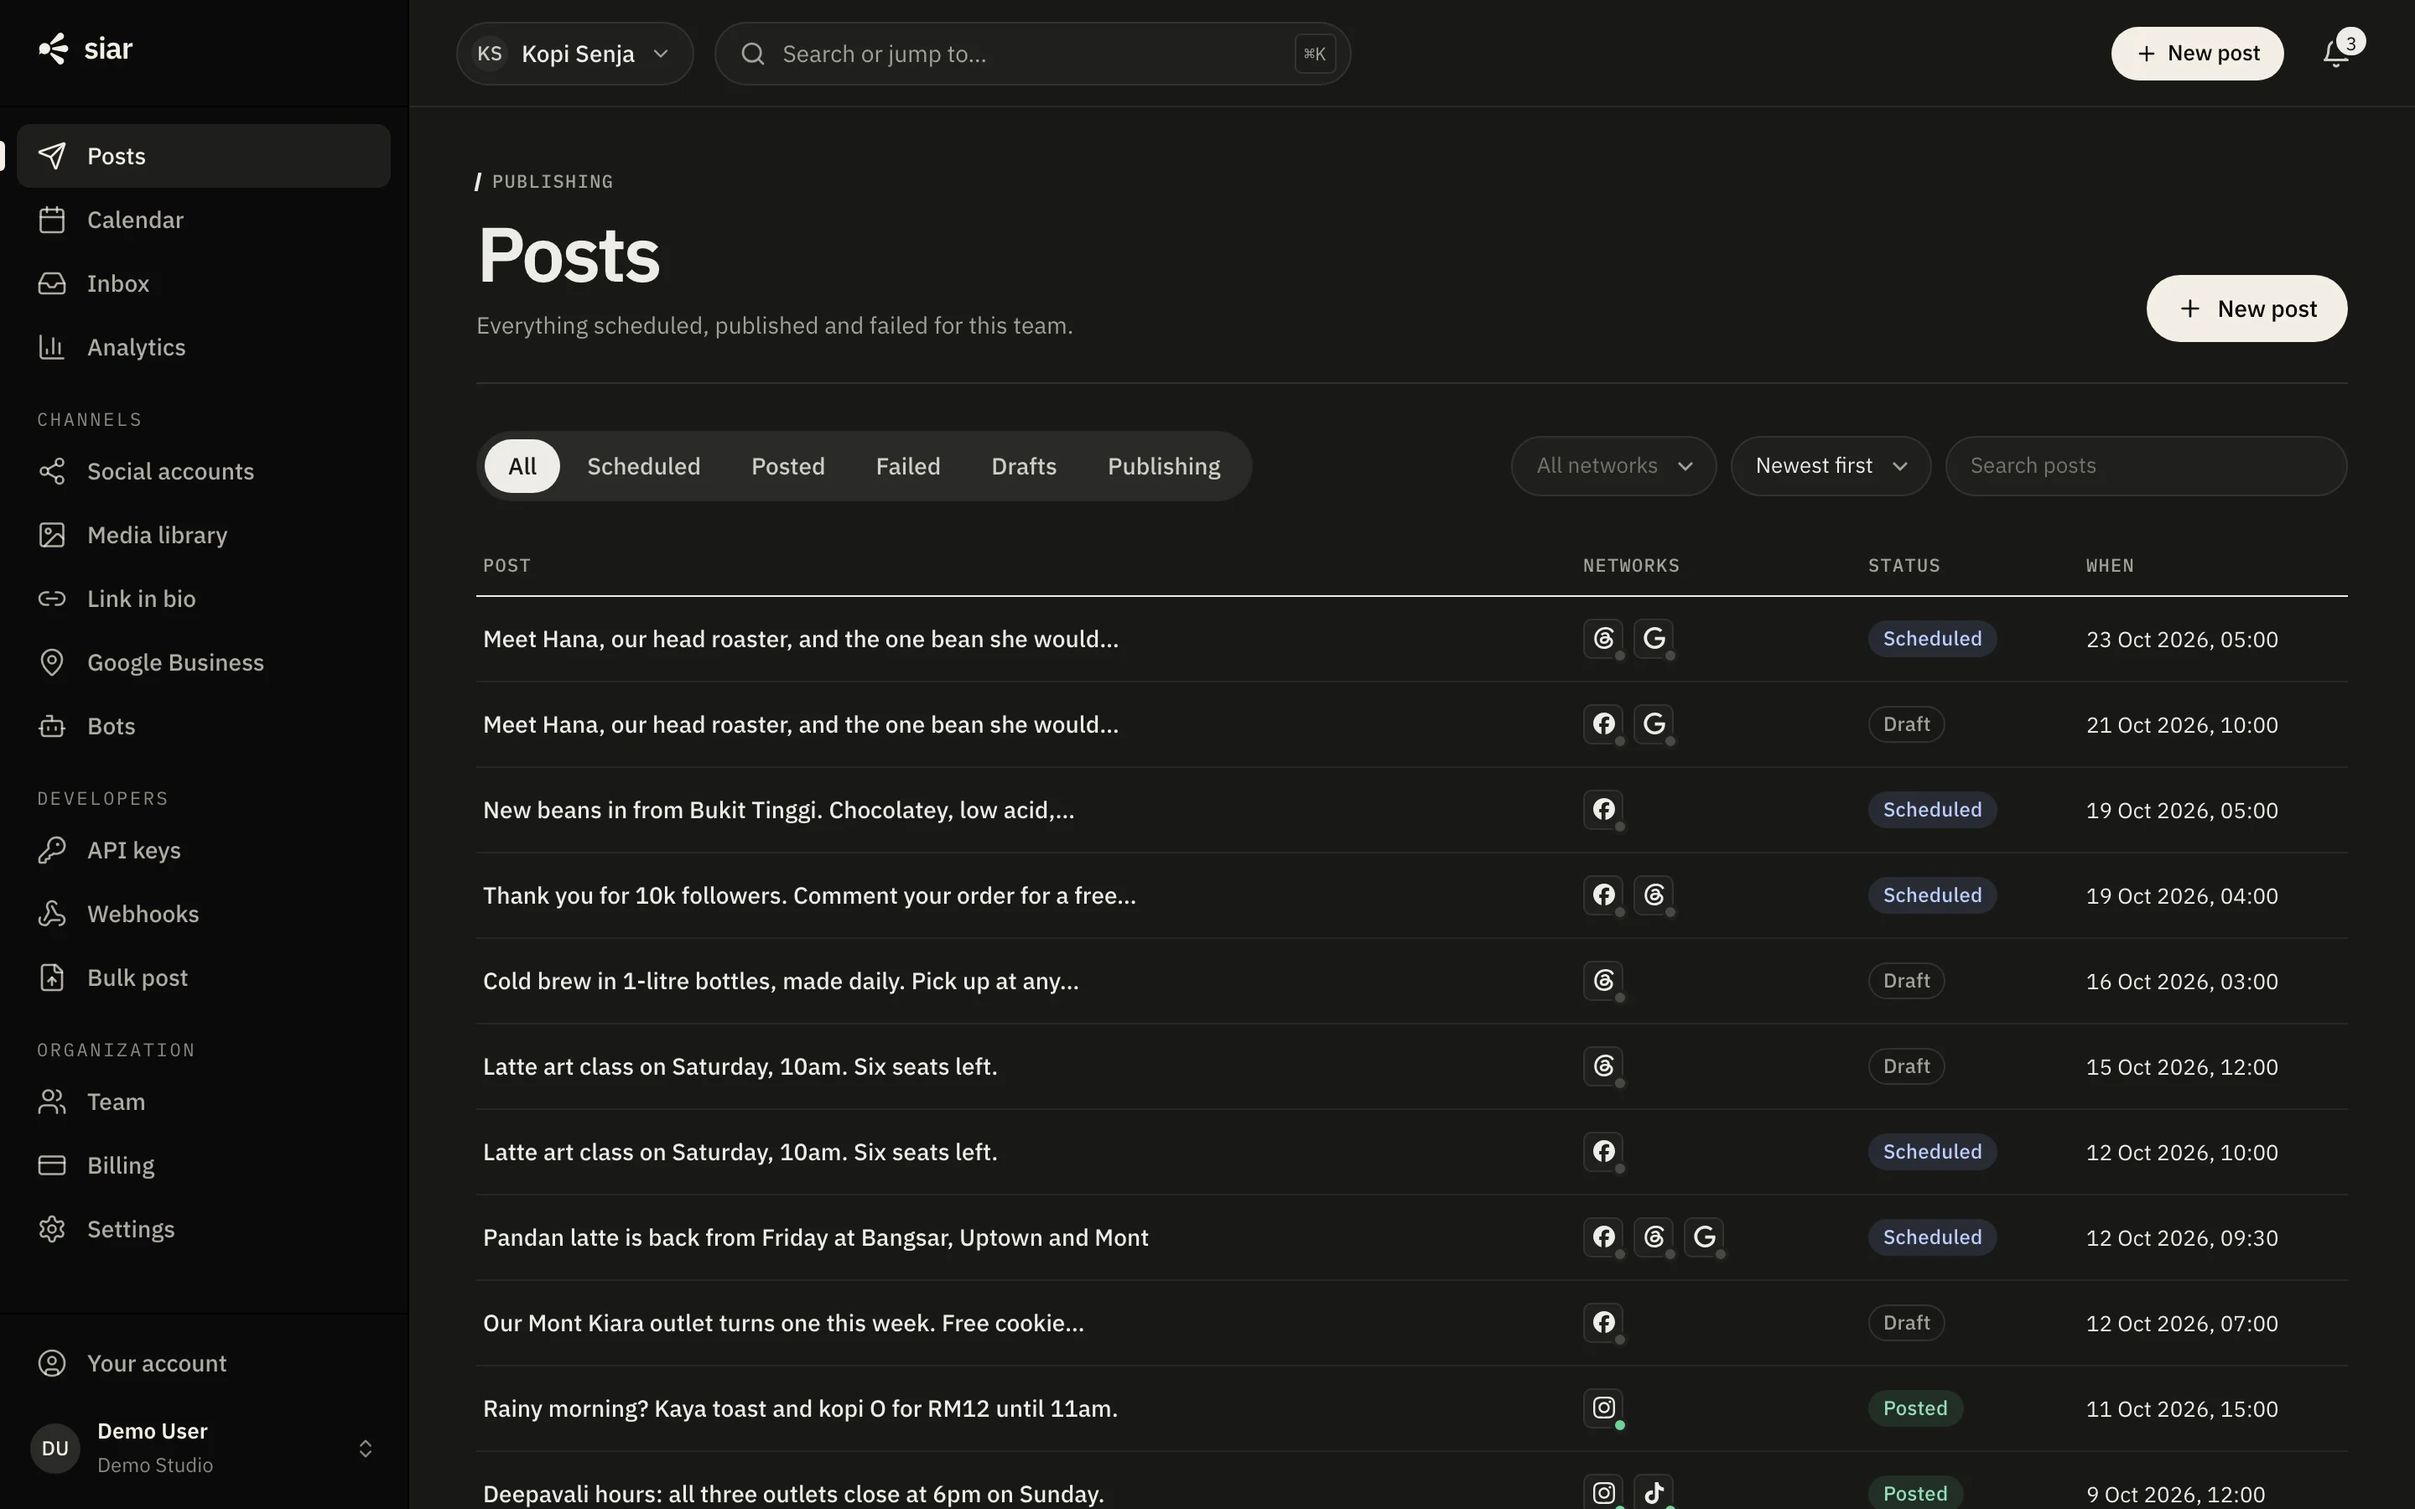
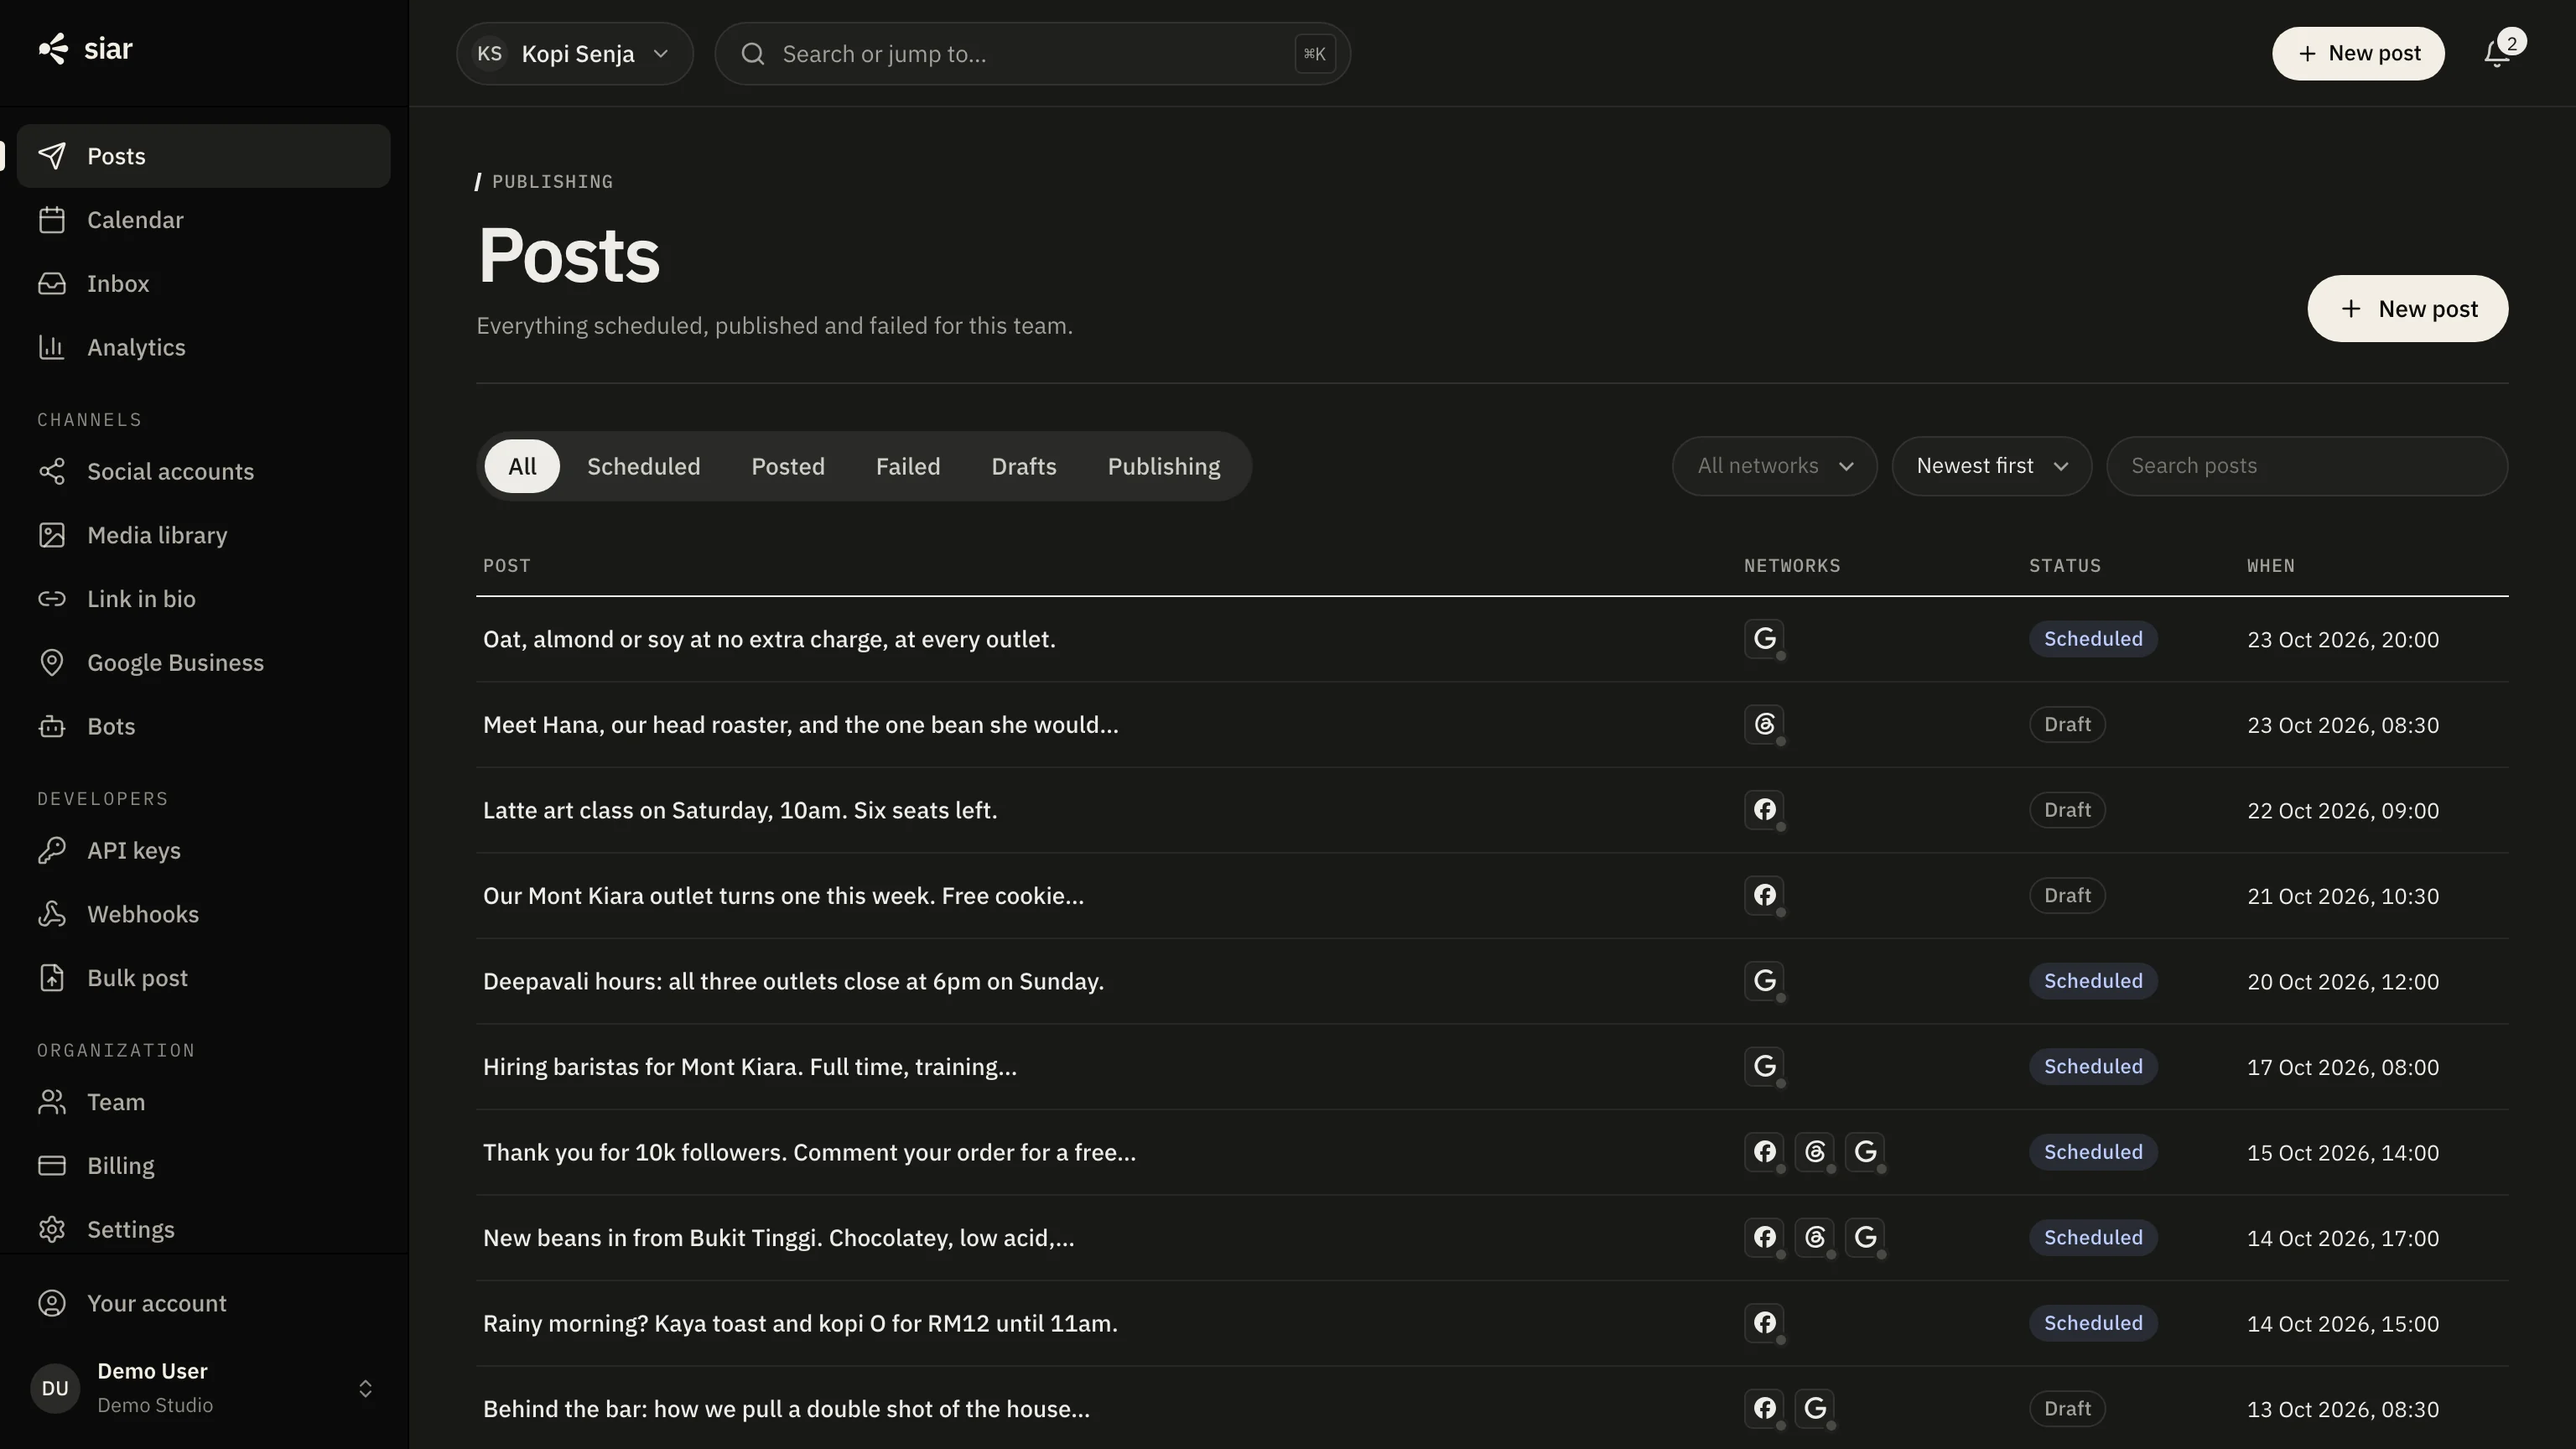
Hero stage: 16:9 dashboard window beside one request + delivery panel, sized to fit a laptop screen
Replaces the floating code card and the 'going out' card with a single ink panel in the dashboard's
own language. Seed: posts at :00/:30 local times, neighbouring posts never share a text; shots recaptured.

diff --git a/apps/api/prisma/seed.ts b/apps/api/prisma/seed.ts
@@ -183,15 +183,19 @@ async function main() {
       }
     }
     // Posts across every state, spread over the last 30 days and the next 14.
-    for (let i = 0; i < 40; i++) {
-      const offset = int(-30, 14);
+    // Dates first, in order, so neighbouring posts in a list never share a text. Times are what a person
+    // picks: on the hour or half hour, 08:00–21:30 Malaysia time (midnight UTC is 08:00 MYT).
+    const today = new Date(); today.setUTCHours(0, 0, 0, 0);
+    const slots = Array.from({ length: 40 }, () => int(-30, 14)).sort((a, b) => a - b)
+      .map(offset => ({ date: new Date(today.getTime() + offset * DAY + int(0, 13) * 3600_000 + pick([0, 30]) * 60_000) }));
+    for (let i = 0; i < slots.length; i++) {
+      const { date } = slots[i];
+      const past = date.getTime() < Date.now();
       // Upcoming posts carry text only, so they go to networks that publish text without media —
       // otherwise the demo calendar is full of posts that would fail validation on any edit.
-      const pool = offset < 0 ? accounts : accounts.filter(a => !MEDIA_REQUIRED.has(a.type));
+      const pool = past ? accounts : accounts.filter(a => !MEDIA_REQUIRED.has(a.type));
       const subset = pool.filter(() => rnd() > 0.45).slice(0, 4);
       if (!subset.length) subset.push(pool[0] ?? accounts[0]);
-      const date = new Date(Date.now() + offset * DAY + int(0, 12) * 3600_000);
-      const past = offset < 0;
       const status = past ? pick(['POSTED', 'POSTED', 'POSTED', 'POSTED', 'ERROR', 'REVIEW'] as const) : pick(['SCHEDULED', 'SCHEDULED', 'DRAFT'] as const);
       const text = TEXTS[t.name][i % TEXTS[t.name].length];
       const data = Object.fromEntries(subset.map(a => [a.type, a.type === 'PINTEREST' ? { text, boardName: 'Official' } : a.type === 'REDDIT' ? { sr: 'r/startups', text } : a.type === 'DISCORD' || a.type === 'SLACK' ? { channelId: a.channelId, text } : a.type === 'TIKTOK' ? { text, privacy: 'PUBLIC_TO_EVERYONE' } : { text }]));

diff --git a/CLAUDE.md b/CLAUDE.md
@@ -66,7 +66,8 @@ Tokens live in `apps/web/src/styles.css`; the site mirrors them.
   plain layer. Never name a scoped class `.in`: the reveal script adds `in` to revealed elements.
 - Product screenshots in `apps/site/public/shots/` come from the real dashboard: reseed, then
   `node apps/site/scripts/shots.mjs [scene…]` (dashboard :5290 + API :3290). The `flow` scene schedules a
-  real post in the demo org, so reseed again afterwards if the demo must be clean.
+  real post in the demo org, so reseed again afterwards if the demo must be clean. The home hero's `posts` shot is
+  16:9 (1536×864) beside the request panel (`home/ApiPanel.astro`); the pair must fit one laptop screen.
 
 ## Running
 
